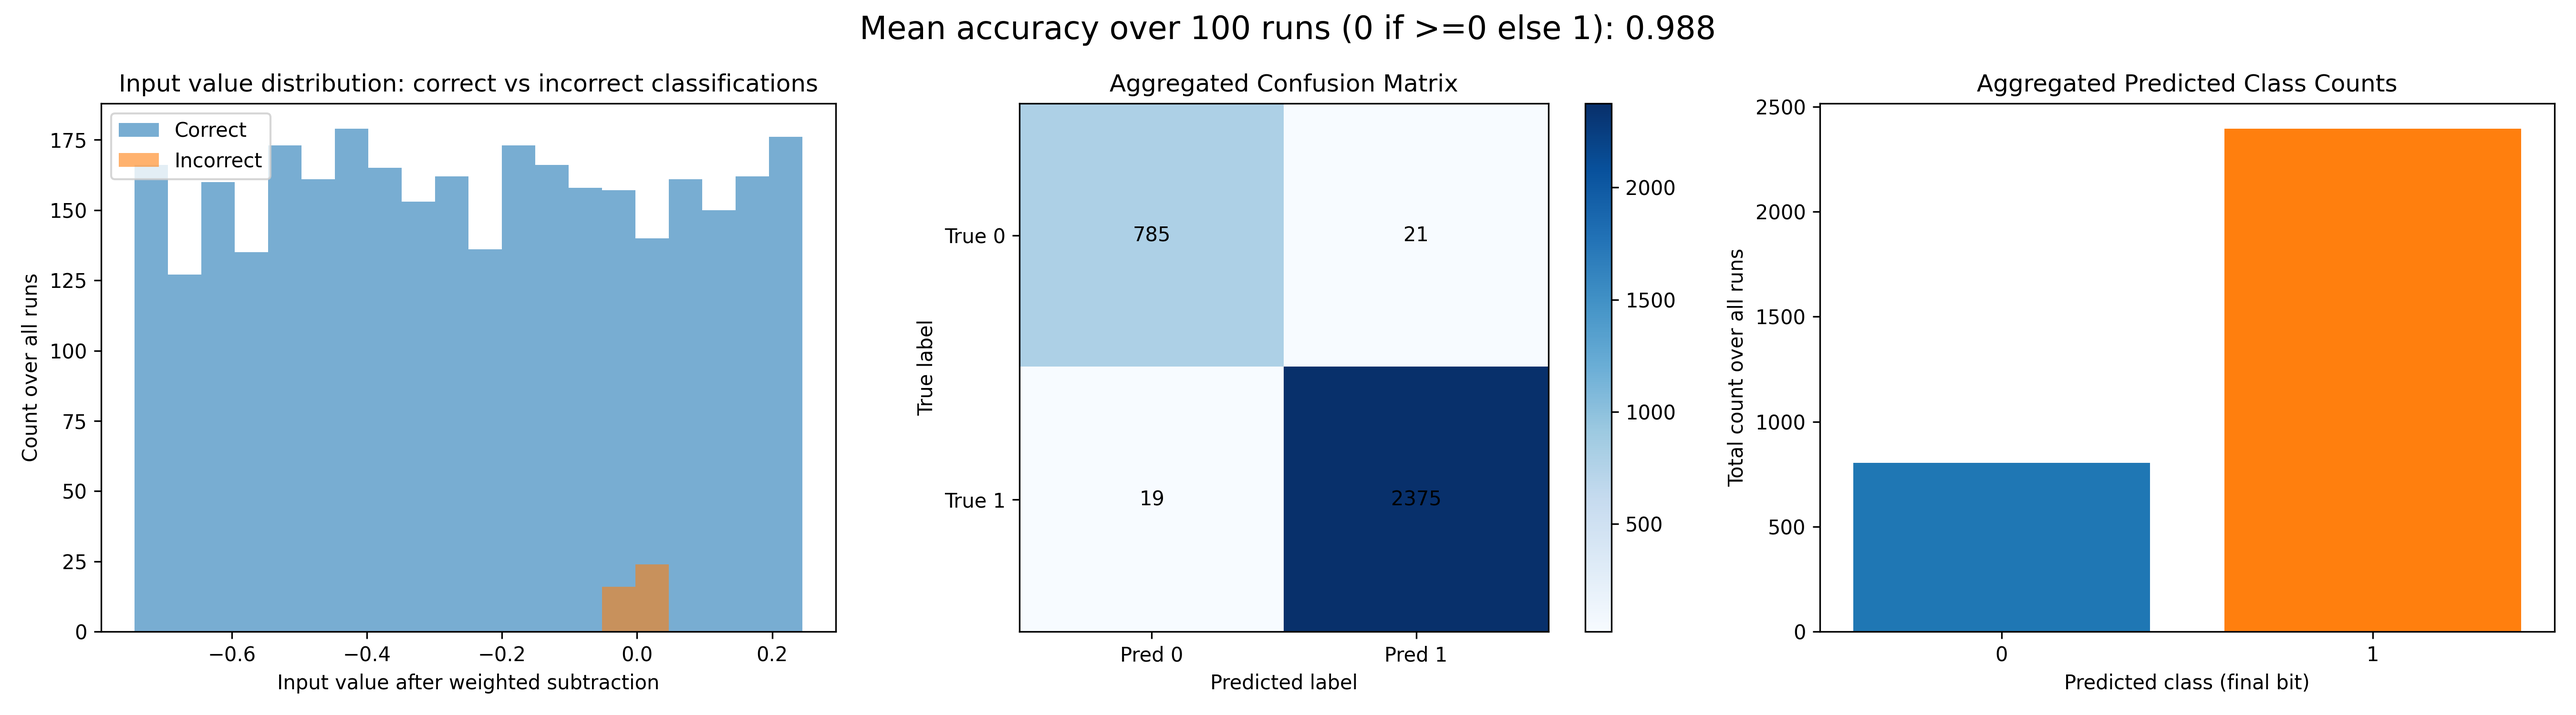
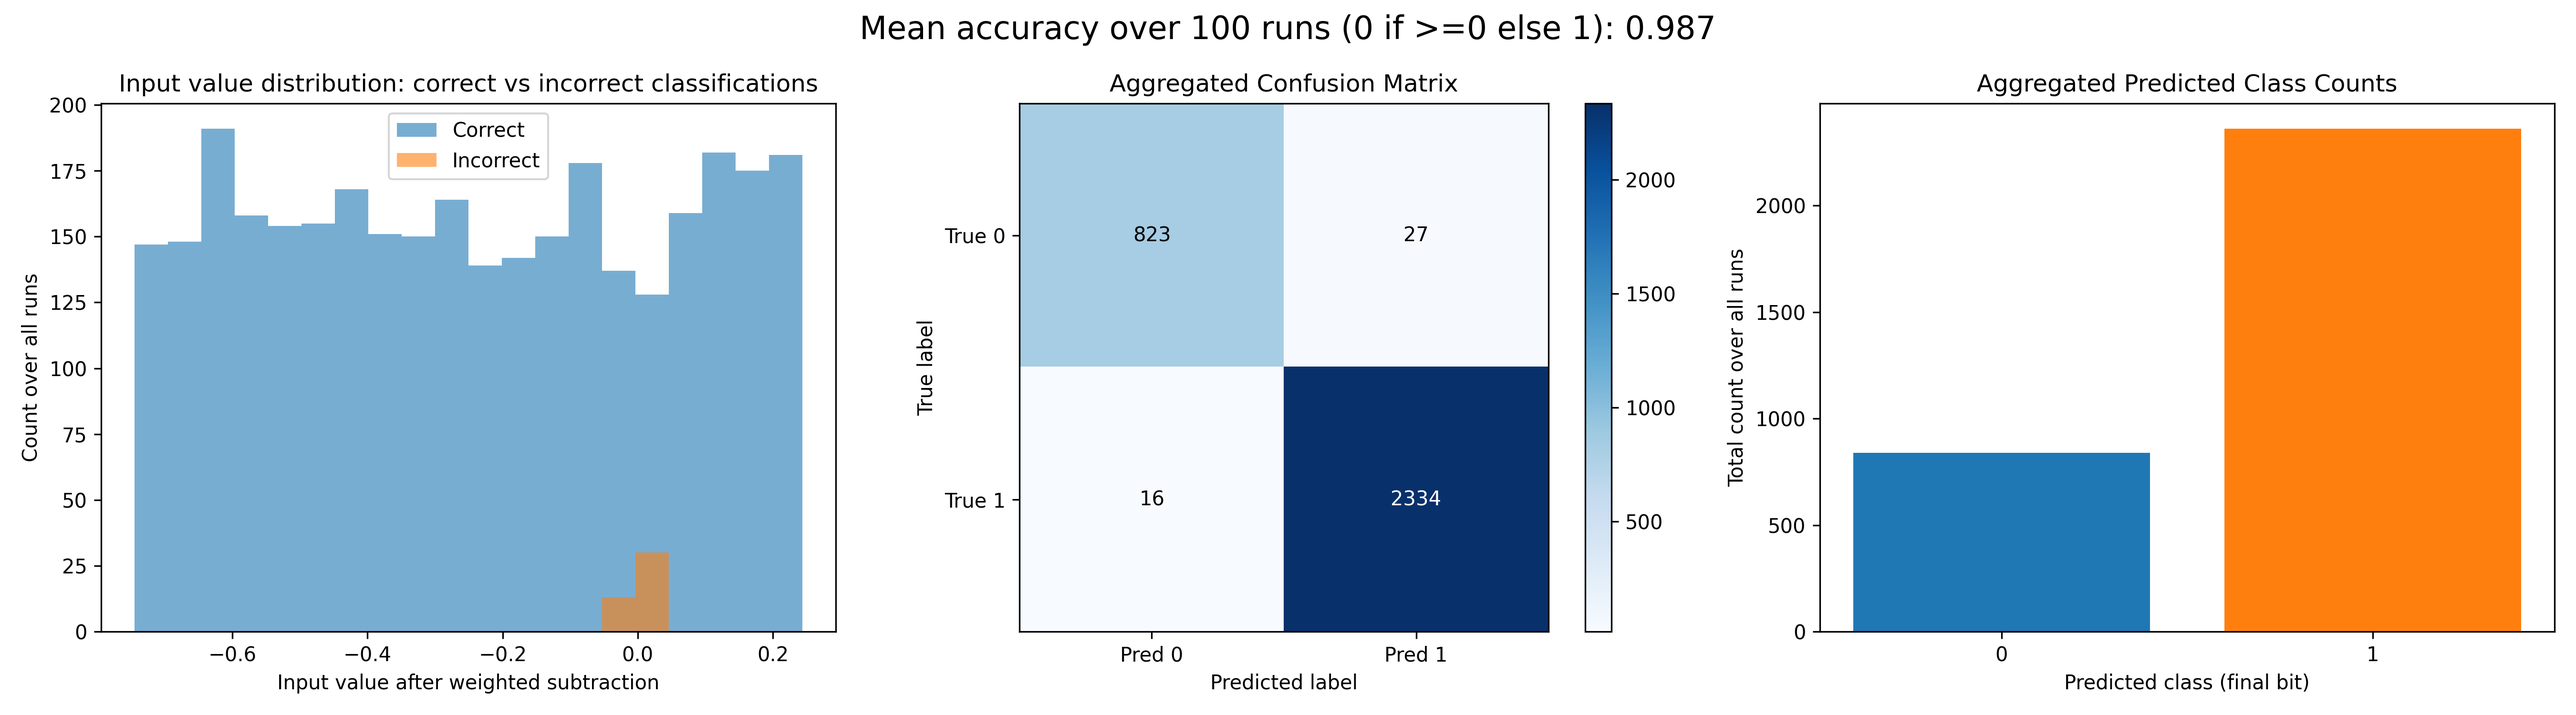
updated plot legibility

diff --git a/ehands_qcrank_vertex_classification_flat.py b/ehands_qcrank_vertex_classification_flat.py
@@ -458,7 +458,7 @@ def test_qcrank_ehands_c_classify_flat(n_cubes, isovalue, weight, sim):
         agg_counts=agg_counts,
         all_correct_vals=all_correct_vals,
         all_incorrect_vals=all_incorrect_vals,
-        out_name="flat_c_classification_summary.png",
+        out_name="flat_c_classification_summary_10x_shots.png",
         bins=20,
     )
     
@@ -583,7 +583,12 @@ def plot_correct_incorrect_input_histogram(all_correct_vals, all_incorrect_vals,
     ax.legend()
 
 
-def plot_aggregated_confusion_matrix(total_cm, title="Aggregated Confusion Matrix", ax=None):
+def plot_aggregated_confusion_matrix(
+    total_cm,
+    title="Aggregated Confusion Matrix",
+    ax=None,
+    cmap="Blues",
+):
     """
     Plot a 2x2 confusion matrix heatmap.
 
@@ -594,7 +599,7 @@ def plot_aggregated_confusion_matrix(total_cm, title="Aggregated Confusion Matri
     if ax is None:
         ax = plt.gca()
 
-    im = ax.imshow(total_cm, interpolation='nearest', cmap=plt.cm.Blues)
+    im = ax.imshow(total_cm, interpolation="nearest", cmap=cmap)
     ax.set_title(title)
 
     ax.figure.colorbar(im, ax=ax)
@@ -607,10 +612,24 @@ def plot_aggregated_confusion_matrix(total_cm, title="Aggregated Confusion Matri
     ax.set_xlabel("Predicted label")
     ax.set_ylabel("True label")
 
-    # Annotate cells with counts
+    # Annotate cells with counts, using luminance so text stays readable for any colormap.
+    norm = im.norm
+    cm = im.get_cmap()
     for i in range(2):
         for j in range(2):
-            ax.text(j, i, int(total_cm[i, j]), ha="center", va="center", color="black")
+            val = int(total_cm[i, j])
+            rgba = cm(norm(val))  # (r,g,b,a) in 0..1
+            r, g, b = rgba[0], rgba[1], rgba[2]
+            # Relative luminance (sRGB approximation); higher = lighter background.
+            luminance = 0.2126 * r + 0.7152 * g + 0.0722 * b
+            ax.text(
+                j,
+                i,
+                val,
+                ha="center",
+                va="center",
+                color=("black" if luminance > 0.6 else "white"),
+            )
 
 
 def plot_aggregated_predicted_class_counts(agg_counts, ax=None):
